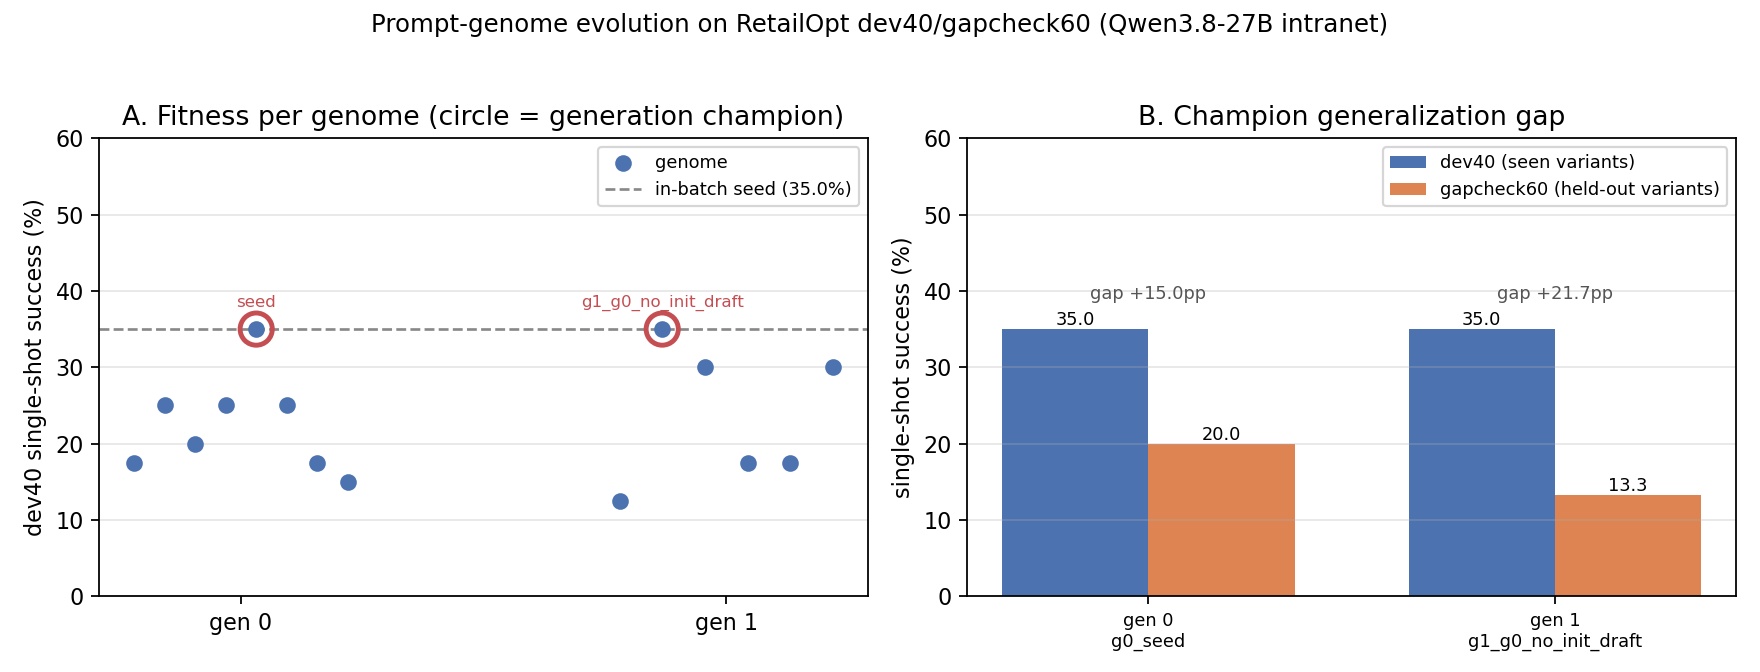
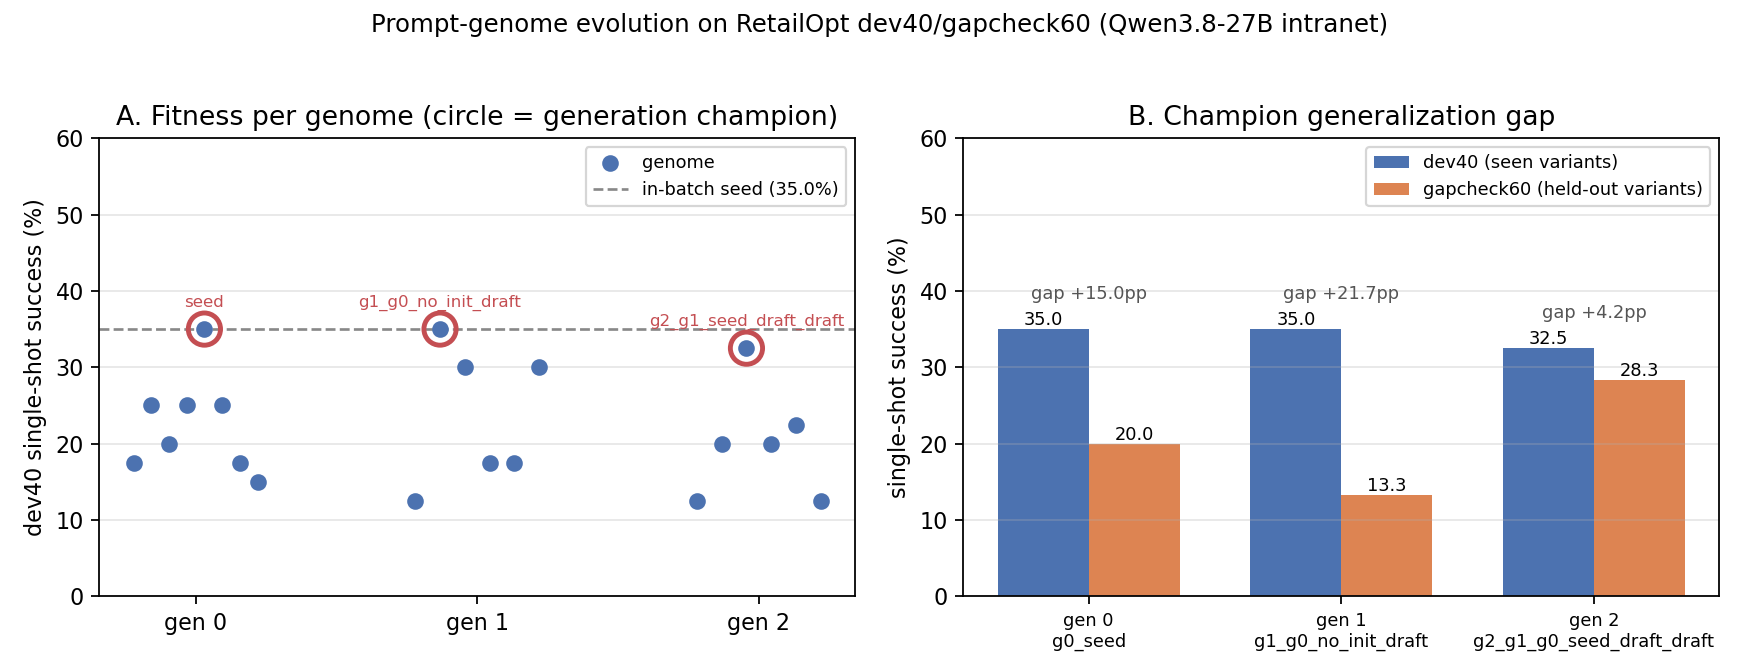
gen2 champion gate filled: g2_g1_g0_seed_draft_draft dev40 32.5% gapcheck60 28.3% (gap +4.2pp, converged); figure regenerated with gen2

diff --git a/docs/paper/evolution_gen0123_v0.1.md b/docs/paper/evolution_gen0123_v0.1.md
@@ -67,7 +67,7 @@ F5-F8 成功率不低于 P3 的 20.0% - 5pp = 15.0%。
 |---|---|---|---|---|---|
 | 0 | g0_seed | 35.0% | 20.0% (12/60) | +15.0pp | **OVERFIT ALARM** |
 | 1 | g1_g0_no_init_draft | 35.0% | 13.3% (8/60) | +21.7pp | **OVERFIT ALARM(恶化)** |
-| 2 | (待填) | | | | |
+| 2 | g2_g1_g0_seed_draft_draft | 32.5% (13/40) | 28.3% (17/60) | +4.2pp | 落差收敛(见注记) |
 | 3 | (待填) | | | | |
 
 第 0 代落差解读(诚实记录,不粉饰):
@@ -88,6 +88,16 @@ F5-F8 成功率不低于 P3 的 20.0% - 5pp = 15.0%。
 (+21.7pp vs +15.0pp)。若第 2、3 代延续此趋势,判据 (c)(全量 F5-F8)
 大概率衰减,裁决将倾向回退;若届时 dev40 显著上升而 F5-F8 守住,
 则需承认"dev 变体适应"与"族间迁移"是两种不同的泛化。
+
+第 2 代注记(2026-11-03 晚落账):冠军 g2_g1_g0_seed_draft_draft
+(g1 次精英 g1_g0_seed_draft 的 LLM 再起草后代,非第 1 代冠军血统)。
+dev40 32.5%(13/40)与种子 35.0% 在噪声带内持平(未显著上升);
+**gapcheck60 28.3%(17/60)为三代最高**(种子 20.0%、第 1 代 13.3%),
+落差收窄到 +4.2pp。诚实的解读:落差改善主要来自 dev40 略降与
+gapcheck60 上升的对挤,而非 dev40 突破;n=60 下 28.3% vs 种子 20.0%
+约 1.4σ,尚不能判定"泛化能力真实变好",但方向与第 1 代的恶化趋势
+相反。判据 (a) 的 45% 门槛对第 3 代仍是硬仗:目前三代冠军 dev40
+为 35.0%→35.0%→32.5%,尚无超出噪声的上行信号。
 
 ### 第 3 代冠军全量 190 题
 
